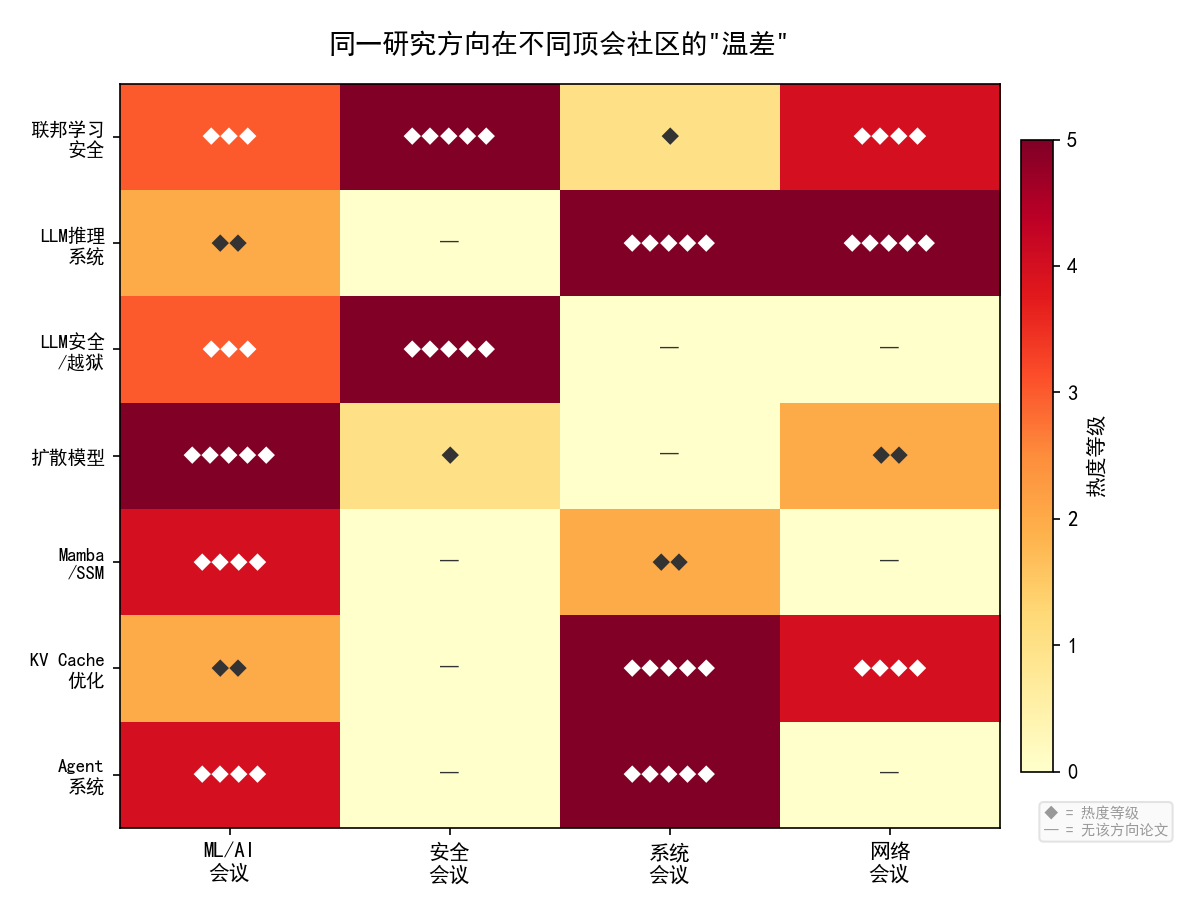
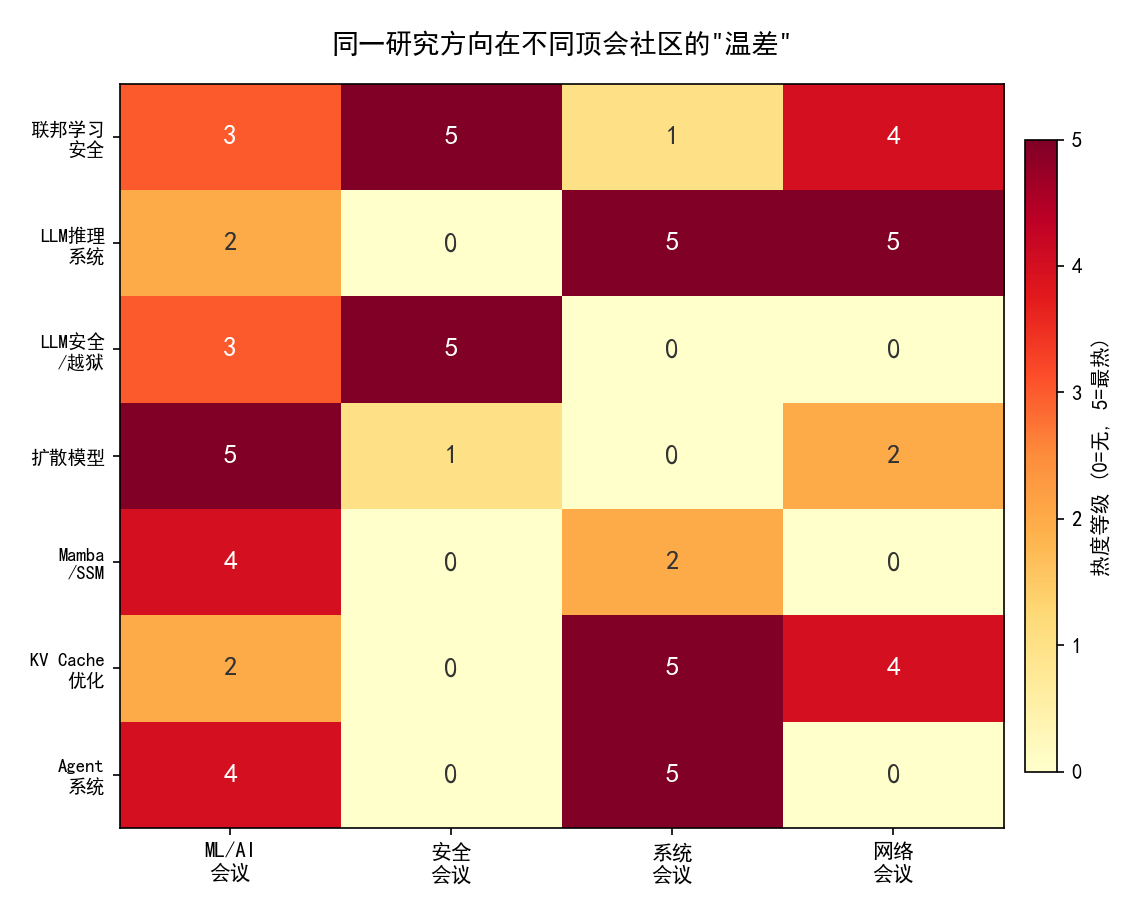
Fix chart2: replace special chars with numbers to avoid font issues

diff --git a/generate_charts.py b/generate_charts.py
@@ -122,20 +122,15 @@ def chart2_temperature_heatmap():
         for j in range(len(venues)):
             val = data[i, j]
             color = 'white' if val >= 3 else '#333'
-            text = '—' if val == 0 else '◆' * val
-            ax.text(j, i, text, ha='center', va='center', fontsize=9, color=color,
-                    fontweight='bold' if val >= 3 else 'normal')
+            ax.text(j, i, str(val), ha='center', va='center', fontsize=13, color=color,
+                    fontweight='bold')
 
     # 颜色条
     cbar = plt.colorbar(im, ax=ax, shrink=0.85, pad=0.02)
-    cbar.set_label('热度等级', fontsize=10)
+    cbar.set_label('热度等级 (0=无, 5=最热)', fontsize=10)
     cbar.set_ticks([0, 1, 2, 3, 4, 5])
 
     ax.set_title('同一研究方向在不同顶会社区的"温差"', fontsize=13, fontweight='bold', pad=15)
-
-    # 标注
-    ax.text(3.7, 6.3, '◆ = 热度等级\n— = 无该方向论文', fontsize=7, color='#999', va='top',
-            bbox=dict(boxstyle='round,pad=0.3', facecolor='#f9f9f9', edgecolor='#ddd', alpha=0.8))
 
     plt.tight_layout()
     path = os.path.join(OUTPUT_DIR, 'chart2_temperature_heatmap.png')